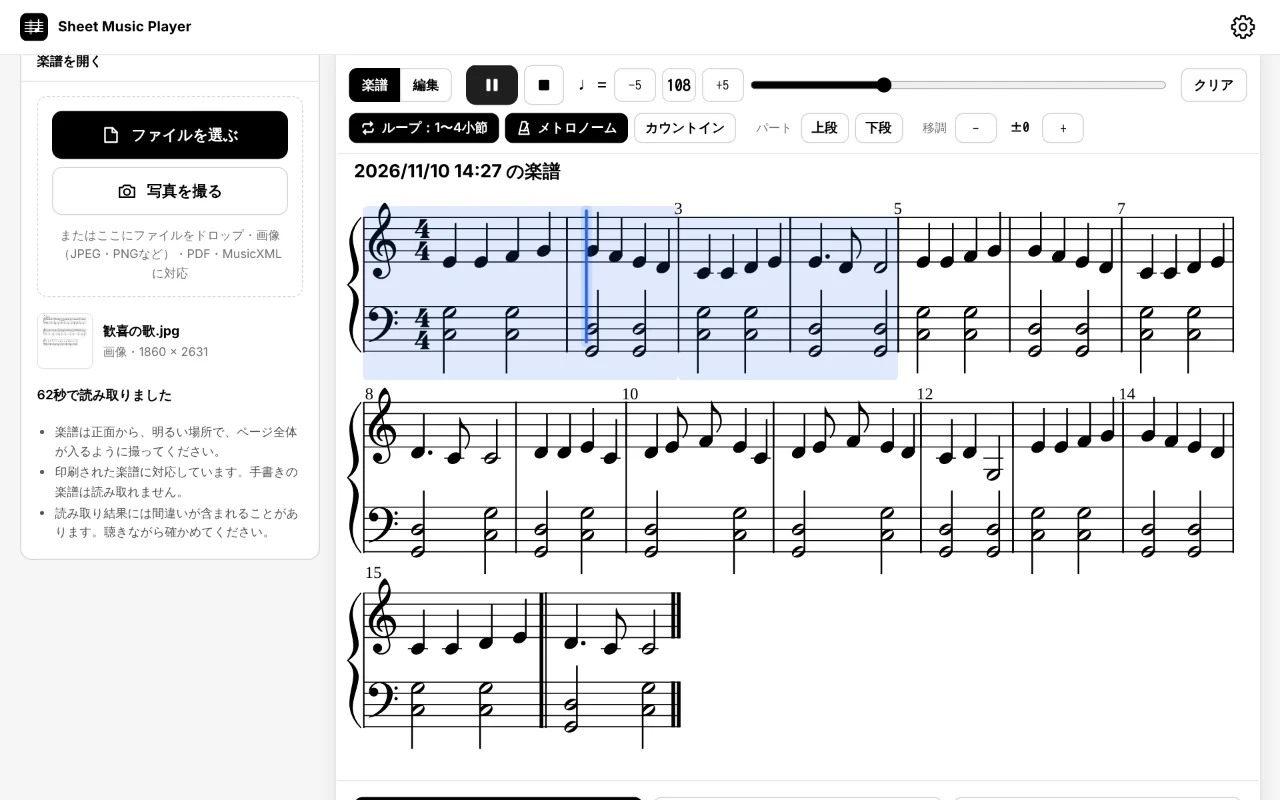
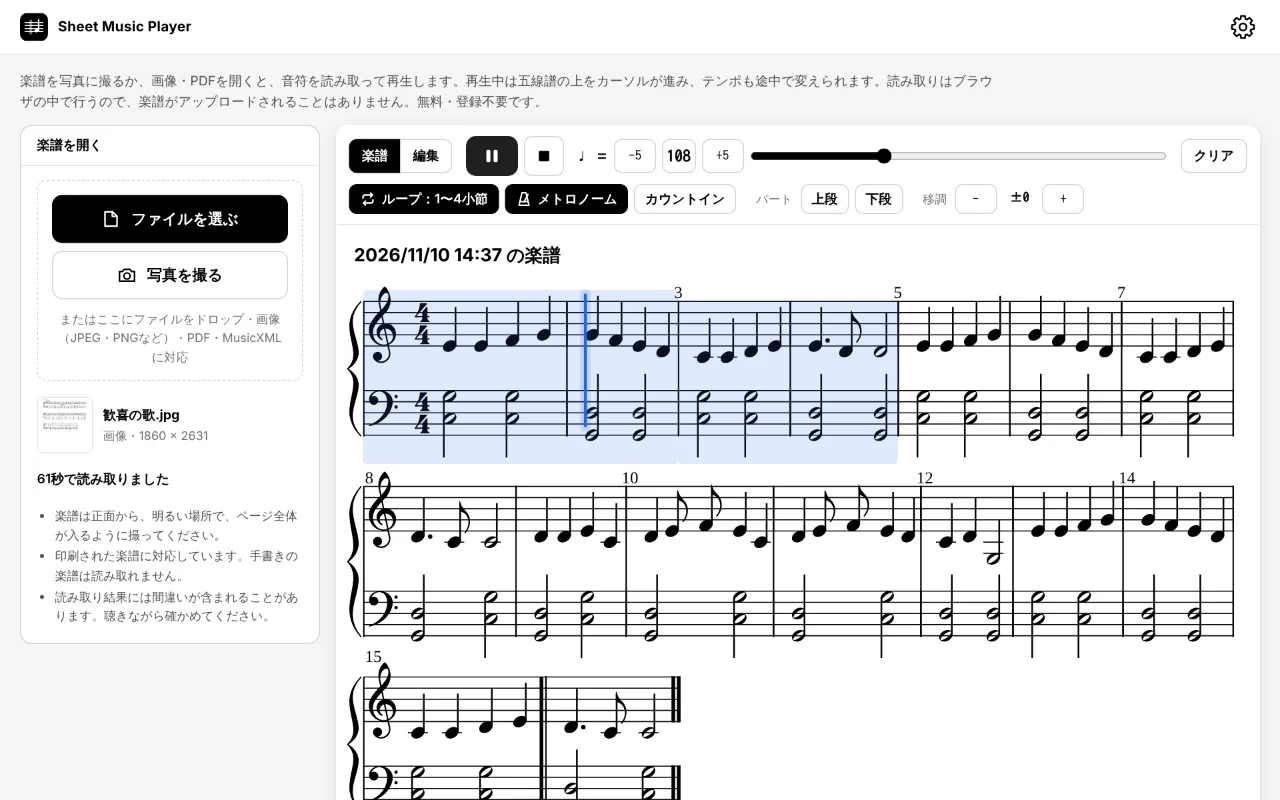
Note Namer へのリンクを「楽譜にドレミを表記」に・外部リンクのアイコン、PWA でヘッダーを固定 (#24)
* 練習モードと「保存・共有」メニューをなくし、クリアを再生の段の右端に、保存・共有を楽譜の下に並べる（Note Namer と同じ配置）

- 「クリア」を ▶・■ の段の右端に（PC は 1 段目の右端、スマホは上に固定される段の右端）
- 「練習モード」ボタンをなくし、ループ・メトロノーム・カウントイン・パート・移調をテンポの下の段に常に出す
- 「保存・共有」メニューをなくし、楽譜の下に「共有」「MP3（音声）で保存」「MIDI で保存」の大きなボタンと、
  「MusicXML（楽譜）で保存」・Note Namer へのリンクを並べる
- ヘルプ・記事（guide・faq・fix-errors・musicxml）・README・CLAUDE.md・docs を直した

Claude-Session: https://claude.ai/code/session_01FBcjAh2EZdUZUo7wvrFp9K

* 記事の画面写真を新しい配置で撮り直す（render-guide-images --only shots）

Claude-Session: https://claude.ai/code/session_01FBcjAh2EZdUZUo7wvrFp9K

* Note Namer へのリンクを「楽譜にドレミを表記（Note Namer）」にし、外部リンクのアイコンを付ける

文字の「↗」をやめ、四角から矢印が出るアイコン（SVG）を文字の後ろに付けた。記事の説明も直した。

Claude-Session: https://claude.ai/code/session_01FBcjAh2EZdUZUo7wvrFp9K

* 記事の画面写真を撮り直す（Note Namer へのリンクの名前とアイコン）

Claude-Session: https://claude.ai/code/session_01FBcjAh2EZdUZUo7wvrFp9K

* ホーム画面アプリ（PWA）ではスマホでもヘッダーを上に固定し、ステータスバーのにじみを防ぐ

Note Namer（ktkwmr/NoteNamer#10）と同じ変更。display-mode: standalone か navigator.standalone のとき
html.standalone を付け、ヘッダーを sticky に、再生の段をその下（--topbar-h）に固定する。

Claude-Session: https://claude.ai/code/session_01FBcjAh2EZdUZUo7wvrFp9K

---------

Changed region(s): [[0.0, 0.0625, 0.9688, 1.0], [0.9375, 0.1875, 0.9688, 0.2188], [0.9375, 0.0938, 0.9688, 0.125]]

diff --git a/public/sheetmusicplayer/ja/index.html b/public/sheetmusicplayer/ja/index.html
@@ -186,6 +186,11 @@
     @media (max-width: 900px), (max-height: 520px) {
       body::before { content: ""; display: block; position: sticky; top: 0; z-index: 950; height: env(safe-area-inset-top, 0px); background: var(--paper); }
       .topbar { position: relative; padding-top: 10px; }
+      /* Home-screen app (html.standalone): the top bar stays at the top too. There env(safe-area-inset-top) can
+         be 0, so the strip above has no height and the page blurred under the status bar on the iPhone */
+      html.standalone body::before { display: none; }
+      html.standalone .topbar { position: sticky; padding-top: calc(10px + env(safe-area-inset-top, 0px)); }
+      html.standalone .player { top: var(--topbar-h, 0px); }
       .player-bar { display: contents; }
       .player { position: sticky; top: env(safe-area-inset-top, 0px); z-index: 5; display: flex; align-items: center; gap: 8px 14px; flex-wrap: wrap; padding: 8px 12px; background: var(--paper); border-bottom: 1px solid var(--line); border-radius: 12px 12px 0 0; }
       .player-sub { display: flex; align-items: center; gap: 8px 14px; flex-wrap: wrap; padding: 10px 12px; border-bottom: 1px solid var(--line); }
@@ -227,6 +232,9 @@
     .actions .big span { overflow: hidden; text-overflow: ellipsis; white-space: nowrap; }
     .act-more { grid-column: 1 / -1; display: flex; flex-wrap: wrap; gap: 6px 20px; align-items: center; font-size: 13px; color: var(--muted); }
     .act-more .linkish { font-size: 13px; font-weight: 600; text-decoration: underline; text-underline-offset: 3px; }
+    /* A link to another site (opens in a new tab): the external-link icon after the text */
+    .ext-link { display: inline-flex; align-items: center; gap: 4px; }
+    .ext-link .ext { width: 13px; height: 13px; flex: none; }
     @media (max-width: 420px) { .actions { grid-template-columns: 1fr; } }
     .title-row { padding: 12px 16px 0; }
     .title-input { width: 100%; border: 1px solid transparent; border-radius: var(--radius); padding: 4px 8px; margin-left: -8px; font: inherit; font-size: 18px; font-weight: 700; color: var(--ink); background: transparent; text-overflow: ellipsis; }
@@ -444,7 +452,7 @@
           <div class="act-more">
             <button type="button" class="linkish" id="actXml" data-i18n="act.xml">MusicXML（楽譜）で保存</button>
             <!-- Another app on ktkwmr.com that writes the note names under every note (a link only; nothing is passed to it) -->
-            <a class="linkish" id="actNames" href="https://ktkwmr.com/notenamer/ja/" target="_blank" rel="noopener" data-i18n="ex.names" data-i18n-attr="href:names.url">ドレミ付きで印刷（Note Namer）↗</a>
+            <a class="linkish ext-link" id="actNames" href="https://ktkwmr.com/notenamer/ja/" target="_blank" rel="noopener" data-i18n-attr="href:names.url"><span data-i18n="ex.names">楽譜にドレミを表記（Note Namer）</span><svg class="ext" viewBox="0 0 16 16" fill="none" stroke="currentColor" stroke-width="1.6" stroke-linecap="round" stroke-linejoin="round" aria-hidden="true"><path d="M9.5 2.5h4v4M13.5 2.5 7.5 8.5"></path><path d="M12 9.5v3a1 1 0 0 1-1 1H3.5a1 1 0 0 1-1-1V5a1 1 0 0 1 1-1h3"></path></svg></a>
           </div>
         </div>
         <p class="keys" id="keys" data-i18n-html="keys"><kbd>Space</kbd> 再生/一時停止　<kbd>Home</kbd> 停止（最初に戻る）　<kbd>↑</kbd><kbd>↓</kbd> テンポ ±1（<kbd>Shift</kbd>で±5）　音符をクリックでカーソルを移動</p>
@@ -585,7 +593,7 @@
           "act.mp3": "Save MP3 (audio)",
           "act.midi": "Save MIDI",
           "act.xml": "Save as MusicXML (score)",
-          "ex.names": "Print with note names (Note Namer) ↗",
+          "ex.names": "Write note names on the score (Note Namer)",
           "names.url": "https://ktkwmr.com/notenamer/",
           "share.text": "Sheet music: {title}. Open the attached MusicXML file in Sheet Music Player to play it.",
           "share.saved": "The MusicXML file was saved. Attach it to your message.",
@@ -736,7 +744,7 @@
           "act.mp3": "MP3（音声）で保存",
           "act.midi": "MIDI で保存",
           "act.xml": "MusicXML（楽譜）で保存",
-          "ex.names": "ドレミ付きで印刷（Note Namer）↗",
+          "ex.names": "楽譜にドレミを表記（Note Namer）",
           "names.url": "https://ktkwmr.com/notenamer/ja/",
           "share.text": "楽譜「{title}」です。添付の MusicXML ファイルを Sheet Music Player で開くと再生できます。",
           "share.saved": "MusicXML ファイルを保存しました。メッセージに添付してください。",
@@ -892,6 +900,7 @@
 
       // The player sticks just under the sticky top bar, whose height changes with wrapping and the status bar
       const topbar = document.querySelector(".topbar");
+      if (matchMedia("(display-mode: standalone)").matches || navigator.standalone) document.documentElement.classList.add("standalone");
       new ResizeObserver(function () { document.documentElement.style.setProperty("--topbar-h", topbar.offsetHeight + "px"); }).observe(topbar);
 
       // ---------- Saved state ----------

diff --git a/public/sheetmusicplayer/index.html b/public/sheetmusicplayer/index.html
@@ -184,6 +184,11 @@
     @media (max-width: 900px), (max-height: 520px) {
       body::before { content: ""; display: block; position: sticky; top: 0; z-index: 950; height: env(safe-area-inset-top, 0px); background: var(--paper); }
       .topbar { position: relative; padding-top: 10px; }
+      /* Home-screen app (html.standalone): the top bar stays at the top too. There env(safe-area-inset-top) can
+         be 0, so the strip above has no height and the page blurred under the status bar on the iPhone */
+      html.standalone body::before { display: none; }
+      html.standalone .topbar { position: sticky; padding-top: calc(10px + env(safe-area-inset-top, 0px)); }
+      html.standalone .player { top: var(--topbar-h, 0px); }
       .player-bar { display: contents; }
       .player { position: sticky; top: env(safe-area-inset-top, 0px); z-index: 5; display: flex; align-items: center; gap: 8px 14px; flex-wrap: wrap; padding: 8px 12px; background: var(--paper); border-bottom: 1px solid var(--line); border-radius: 12px 12px 0 0; }
       .player-sub { display: flex; align-items: center; gap: 8px 14px; flex-wrap: wrap; padding: 10px 12px; border-bottom: 1px solid var(--line); }
@@ -225,6 +230,9 @@
     .actions .big span { overflow: hidden; text-overflow: ellipsis; white-space: nowrap; }
     .act-more { grid-column: 1 / -1; display: flex; flex-wrap: wrap; gap: 6px 20px; align-items: center; font-size: 13px; color: var(--muted); }
     .act-more .linkish { font-size: 13px; font-weight: 600; text-decoration: underline; text-underline-offset: 3px; }
+    /* A link to another site (opens in a new tab): the external-link icon after the text */
+    .ext-link { display: inline-flex; align-items: center; gap: 4px; }
+    .ext-link .ext { width: 13px; height: 13px; flex: none; }
     @media (max-width: 420px) { .actions { grid-template-columns: 1fr; } }
     .title-row { padding: 12px 16px 0; }
     .title-input { width: 100%; border: 1px solid transparent; border-radius: var(--radius); padding: 4px 8px; margin-left: -8px; font: inherit; font-size: 18px; font-weight: 700; color: var(--ink); background: transparent; text-overflow: ellipsis; }
@@ -444,7 +452,7 @@
           <div class="act-more">
             <button type="button" class="linkish" id="actXml" data-i18n="act.xml">Save as MusicXML (score)</button>
             <!-- Another app on ktkwmr.com that writes the note names under every note (a link only; nothing is passed to it) -->
-            <a class="linkish" id="actNames" href="https://ktkwmr.com/notenamer/" target="_blank" rel="noopener" data-i18n="ex.names" data-i18n-attr="href:names.url">Print with note names (Note Namer) ↗</a>
+            <a class="linkish ext-link" id="actNames" href="https://ktkwmr.com/notenamer/" target="_blank" rel="noopener" data-i18n-attr="href:names.url"><span data-i18n="ex.names">Write note names on the score (Note Namer)</span><svg class="ext" viewBox="0 0 16 16" fill="none" stroke="currentColor" stroke-width="1.6" stroke-linecap="round" stroke-linejoin="round" aria-hidden="true"><path d="M9.5 2.5h4v4M13.5 2.5 7.5 8.5"></path><path d="M12 9.5v3a1 1 0 0 1-1 1H3.5a1 1 0 0 1-1-1V5a1 1 0 0 1 1-1h3"></path></svg></a>
           </div>
         </div>
         <p class="keys" id="keys" data-i18n-html="keys"><kbd>Space</kbd> play / pause　<kbd>Home</kbd> stop (back to the beginning)　<kbd>↑</kbd><kbd>↓</kbd> tempo ±1 (<kbd>Shift</kbd> ±5)　click a note to move the cursor there</p>
@@ -593,7 +601,7 @@
           "act.mp3": "Save MP3 (audio)",
           "act.midi": "Save MIDI",
           "act.xml": "Save as MusicXML (score)",
-          "ex.names": "Print with note names (Note Namer) ↗",
+          "ex.names": "Write note names on the score (Note Namer)",
           "names.url": "https://ktkwmr.com/notenamer/",
           "share.text": "Sheet music: {title}. Open the attached MusicXML file in Sheet Music Player to play it.",
           "share.saved": "The MusicXML file was saved. Attach it to your message.",
@@ -744,7 +752,7 @@
           "act.mp3": "MP3（音声）で保存",
           "act.midi": "MIDI で保存",
           "act.xml": "MusicXML（楽譜）で保存",
-          "ex.names": "ドレミ付きで印刷（Note Namer）↗",
+          "ex.names": "楽譜にドレミを表記（Note Namer）",
           "names.url": "https://ktkwmr.com/notenamer/ja/",
           "share.text": "楽譜「{title}」です。添付の MusicXML ファイルを Sheet Music Player で開くと再生できます。",
           "share.saved": "MusicXML ファイルを保存しました。メッセージに添付してください。",
@@ -900,6 +908,7 @@
 
       // The player sticks just under the sticky top bar, whose height changes with wrapping and the status bar
       const topbar = document.querySelector(".topbar");
+      if (matchMedia("(display-mode: standalone)").matches || navigator.standalone) document.documentElement.classList.add("standalone");
       new ResizeObserver(function () { document.documentElement.style.setProperty("--topbar-h", topbar.offsetHeight + "px"); }).observe(topbar);
 
       // ---------- Saved state ----------

diff --git a/public/sheetmusicplayer/ja/guide/index.html b/public/sheetmusicplayer/ja/guide/index.html
@@ -277,7 +277,7 @@
 
 <h2 id="save">7. 保存・共有する</h2>
 <figure class="shot">
-  <a href="/sheetmusicplayer/guide/img/app-export-ja.webp"><img src="/sheetmusicplayer/guide/img/app-export-ja.webp" width="1280" height="800" alt="楽譜の下のボタン。共有、MP3（音声）で保存、MIDI で保存と、その下の「MusicXML（楽譜）で保存」と「ドレミ付きで印刷（Note Namer）」" loading="lazy" decoding="async"></a>
+  <a href="/sheetmusicplayer/guide/img/app-export-ja.webp"><img src="/sheetmusicplayer/guide/img/app-export-ja.webp" width="1280" height="800" alt="楽譜の下のボタン。共有、MP3（音声）で保存、MIDI で保存と、その下の「MusicXML（楽譜）で保存」と「楽譜にドレミを表記（Note Namer）」" loading="lazy" decoding="async"></a>
   <figcaption>楽譜の下の「共有」「MP3（音声）で保存」「MIDI で保存」。</figcaption>
 </figure>
 <p>楽譜の下のボタンで、保存や共有ができます。ファイル名は楽譜のタイトルになります。</p>
@@ -287,7 +287,7 @@
   <li><b>MP3（音声）で保存</b>：聞こえているとおりの音（今のテンポ、パートの強調・消音、移調。メトロノームは入りません）を録音したファイルです。端末の中で数秒かけて作ります。合唱のパートごとに練習用の音源を作る、といった使い方ができます。</li>
   <li><b>共有</b>：アプリのリンクと MusicXML のファイルを、端末の共有メニュー（メッセージ・メールなど）で送ります。受け取った人はこのアプリで楽譜を開けます。ブラウザがファイルを添付できないときは、ファイルを保存してからリンクだけを共有（またはコピー）するので、ファイルは手で添付してください。</li>
 </ul>
-<p>その隣の<b>ドレミ付きで印刷（Note Namer）</b>は、このサイトの別のアプリ <a href="https://ktkwmr.com/notenamer/ja/">Note Namer</a> を開きます。すべての音符の下にドレミなどの音名を書いて印刷できる無料のアプリです。同じ写真か、保存した MusicXML をそちらで開いてください。</p>
+<p>その隣の<b>楽譜にドレミを表記（Note Namer）</b>は、このサイトの別のアプリ <a href="https://ktkwmr.com/notenamer/ja/">Note Namer</a> を開きます。すべての音符の下にドレミなどの音名を書いて印刷できる無料のアプリです。同じ写真か、保存した MusicXML をそちらで開いてください。</p>
 
 <h2 id="recent">8. 最近の楽譜</h2>
 <p>楽譜の上には、タイトルを表示します。MusicXML のファイルに書かれたタイトルか、なければ読み取った日時です。タイトルをクリックすると名前を変えられます。最近開いた 10 曲は、テンポや移調の設定と一緒にブラウザに保存され、左のパネルの<b>最近の楽譜</b>から開き直せます。<b>履歴を消去</b>で一覧を消し（開いている楽譜は残ります）、<b>クリア</b>で開いている楽譜を画面とブラウザから消します。</p>

diff --git a/public/sheetmusicplayer/guide/index.html b/public/sheetmusicplayer/guide/index.html
@@ -277,7 +277,7 @@
 
 <h2 id="save">7. Save and share</h2>
 <figure class="shot">
-  <a href="/sheetmusicplayer/guide/img/app-export-en.webp"><img src="/sheetmusicplayer/guide/img/app-export-en.webp" width="1280" height="800" alt="The buttons under the score: Share, Save MP3 (audio), and Save MIDI, and under them Save as MusicXML (score) and Print with note names (Note Namer)" loading="lazy" decoding="async"></a>
+  <a href="/sheetmusicplayer/guide/img/app-export-en.webp"><img src="/sheetmusicplayer/guide/img/app-export-en.webp" width="1280" height="800" alt="The buttons under the score: Share, Save MP3 (audio), and Save MIDI, and under them Save as MusicXML (score) and Write note names on the score (Note Namer)" loading="lazy" decoding="async"></a>
   <figcaption>Under the score: Share, Save MP3, Save MIDI.</figcaption>
 </figure>
 <p>The buttons under the score save or share it. The files are named after the title of the score.</p>
@@ -287,7 +287,7 @@
   <li><b>Save MP3 (audio)</b>: a recording of what you hear: the current tempo, the louder and muted parts, and the transposition (without the metronome). It is made on your device and takes a few seconds; a practice track for each part of a choir, for example, is one MP3 per part.</li>
   <li><b>Share</b>: sends the app's link and the MusicXML file through your device's share menu (messages, mail, …), so others can open the score in this app. If the browser cannot attach the file, the file is saved and only the link is shared (or copied); attach the file yourself.</li>
 </ul>
-<p>The link next to it, <b>Print with note names (Note Namer)</b>, opens <a href="https://ktkwmr.com/notenamer/">Note Namer</a>, another free app on this site that writes the name of every note (C D E, Do Re Mi, …) under it, ready to print. Open the same photo or the saved MusicXML file there.</p>
+<p>The link next to it, <b>Write note names on the score (Note Namer)</b>, opens <a href="https://ktkwmr.com/notenamer/">Note Namer</a>, another free app on this site that writes the name of every note (C D E, Do Re Mi, …) under it, ready to print. Open the same photo or the saved MusicXML file there.</p>
 
 <h2 id="recent">8. Recent scores</h2>
 <p>The title of the score is shown above it: the title written in a MusicXML file, or the date and time it was read. Click the title to rename it. The last 10 scores you opened are kept in the browser, with their tempo and transposition, and are listed under <b>Recent scores</b> in the left panel; tap one to open it again. <b>Clear history</b> removes them (the open score stays), and <b>Clear</b> removes the open score from the screen and from the browser.</p>

diff --git a/docs/article-review.md b/docs/article-review.md
@@ -17,7 +17,7 @@ PR を出すと Cloudflare のプレビュー URL ができるので、そこで
 
 ## 2026-11-10 練習モードと「保存・共有」メニューをなくした
 
-guide の「5. 練習する」「7. 保存・共有する」、faq（練習・移調・保存）、fix-errors・musicxml の「保存・共有 → MusicXML」を、テンポの下のボタン・楽譜の下のボタンの説明に直した。画面写真（app-practice・app-export ほか）を撮り直した。
+guide の「5. 練習する」「7. 保存・共有する」（Note Namer へのリンクの名前を「楽譜にドレミを表記（Note Namer）」に）、faq（練習・移調・保存）、fix-errors・musicxml の「保存・共有 → MusicXML」を、テンポの下のボタン・楽譜の下のボタンの説明に直した。画面写真（app-practice・app-export ほか）を撮り直した。
 
 ## 2026-11-09 Note Namer へのリンク
 
